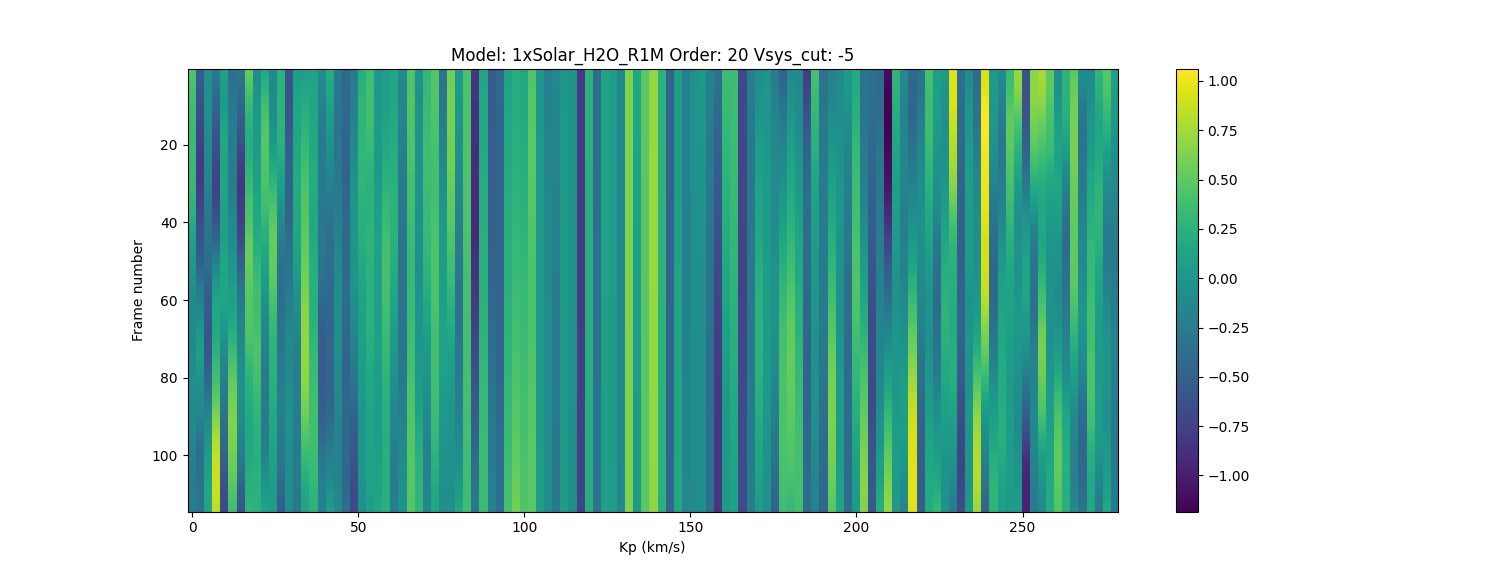
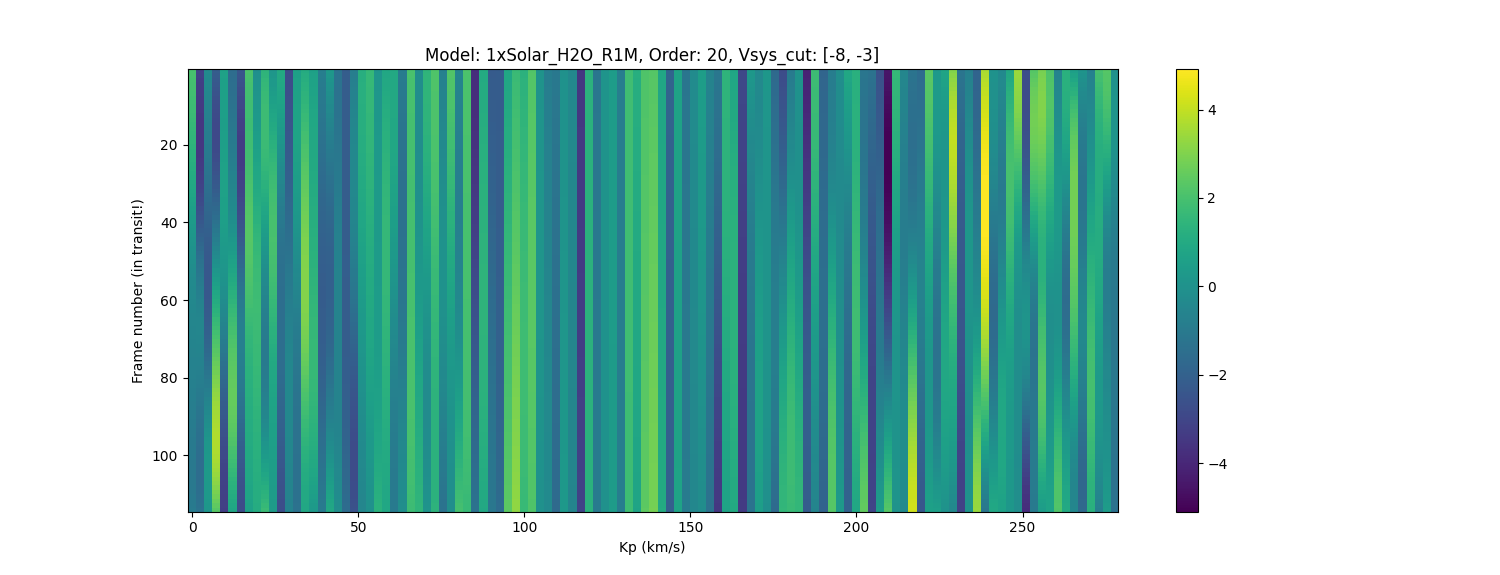
allow for summation of vsys range

diff --git a/correlation_fcts.py b/correlation_fcts.py
@@ -396,13 +396,20 @@ def cc_time_plot(filename,order,vsys_cut):
     nKp,nVsys,nord,nep = corr.shape
     Kpmin, Kpmax    = Kp.min(),Kp.max()
     dKp = Kp[1]-Kp[0]
-    res     = corr[:,vsys_cut,order,:]
+
+    if len(vsys_cut)>1:
+        # sum over a range
+        v1,v2 = vsys_cut
+        res = np.sum(corr[:,v1:v2,order,:],axis=1)
+    else:
+        vsys_cut = vsys_cut[0]
+        res = corr[:,vsys_cut,order,:]
 
     fig     = plt.figure(figsize=(15,0.05*nep))
     extent  = (Kpmin - 0.5*dKp, Kpmax -0.5*dKp, nep-0.5, 0.5)
     plt.imshow(res,aspect='auto',interpolation='nearest',extent=extent)
     plt.xlabel('Kp (km/s)')
-    plt.ylabel('Frame number')
+    plt.ylabel('Frame number (in transit!)')
     plt.title('Model: ' +filename+', Order: {}'.format(order)+', Vsys_cut: {}'.format(vsys_cut))
     plt.colorbar()
     plt.savefig('xcorr_result/' + filename + '_order{}.png'.format(order))
